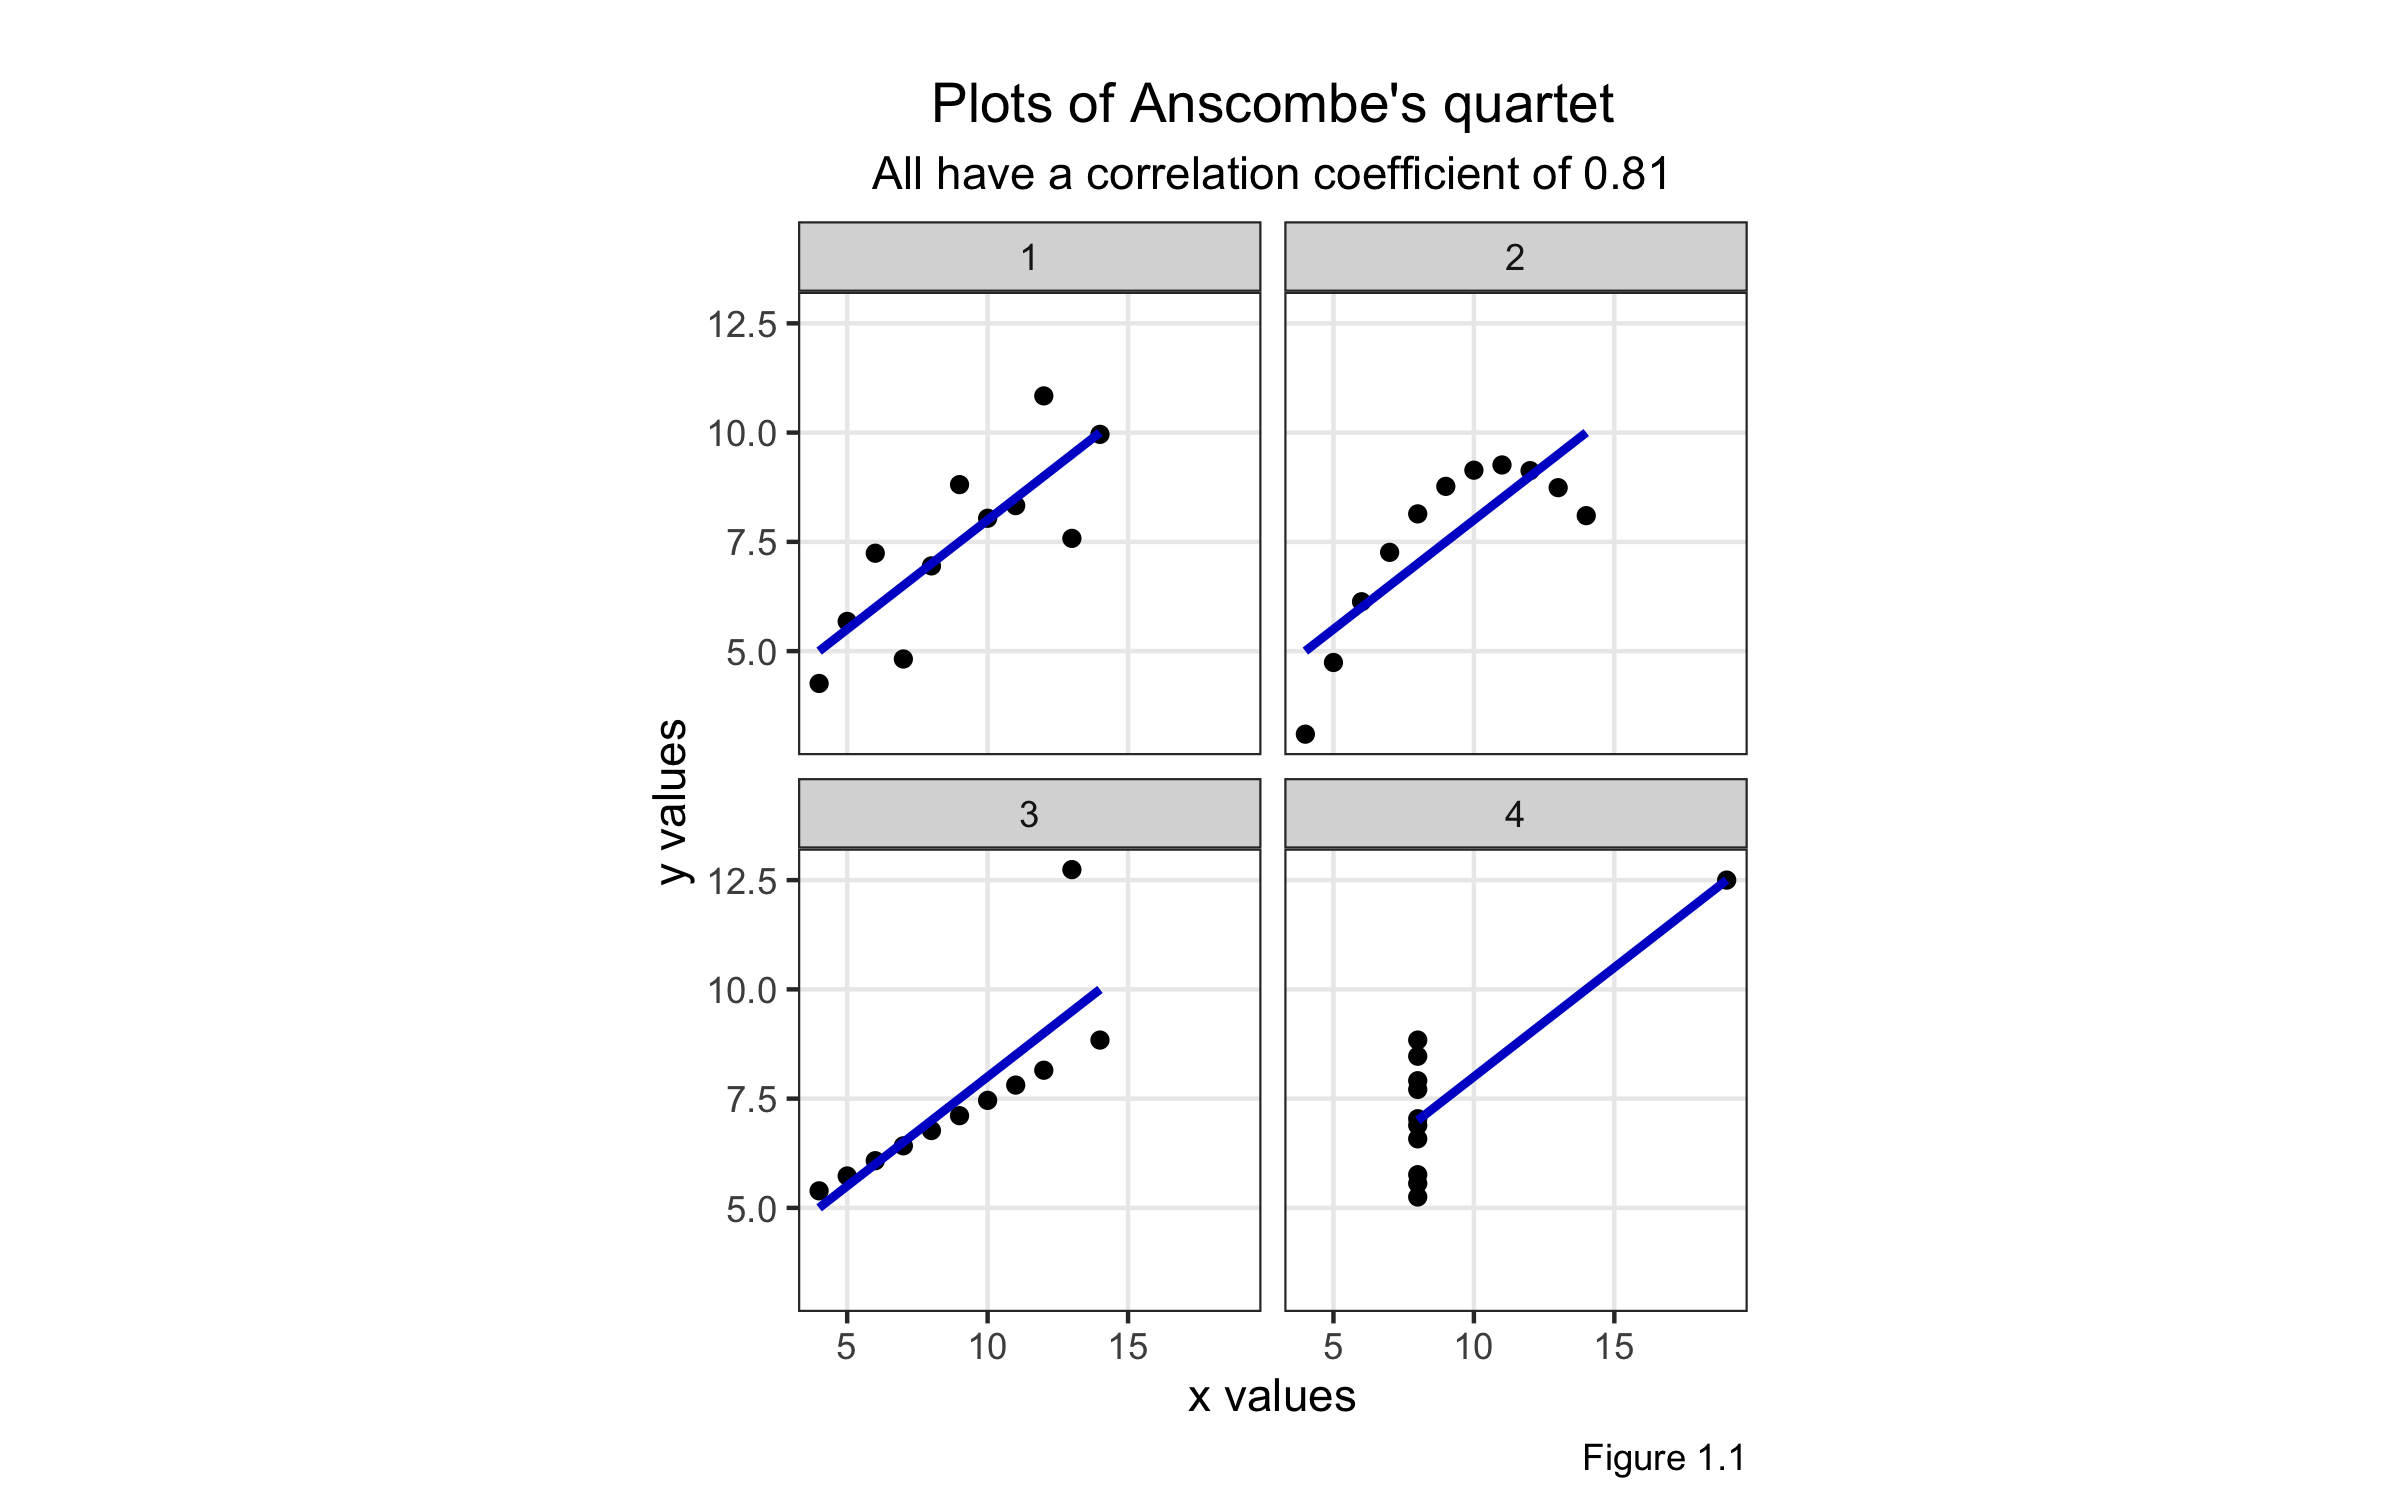
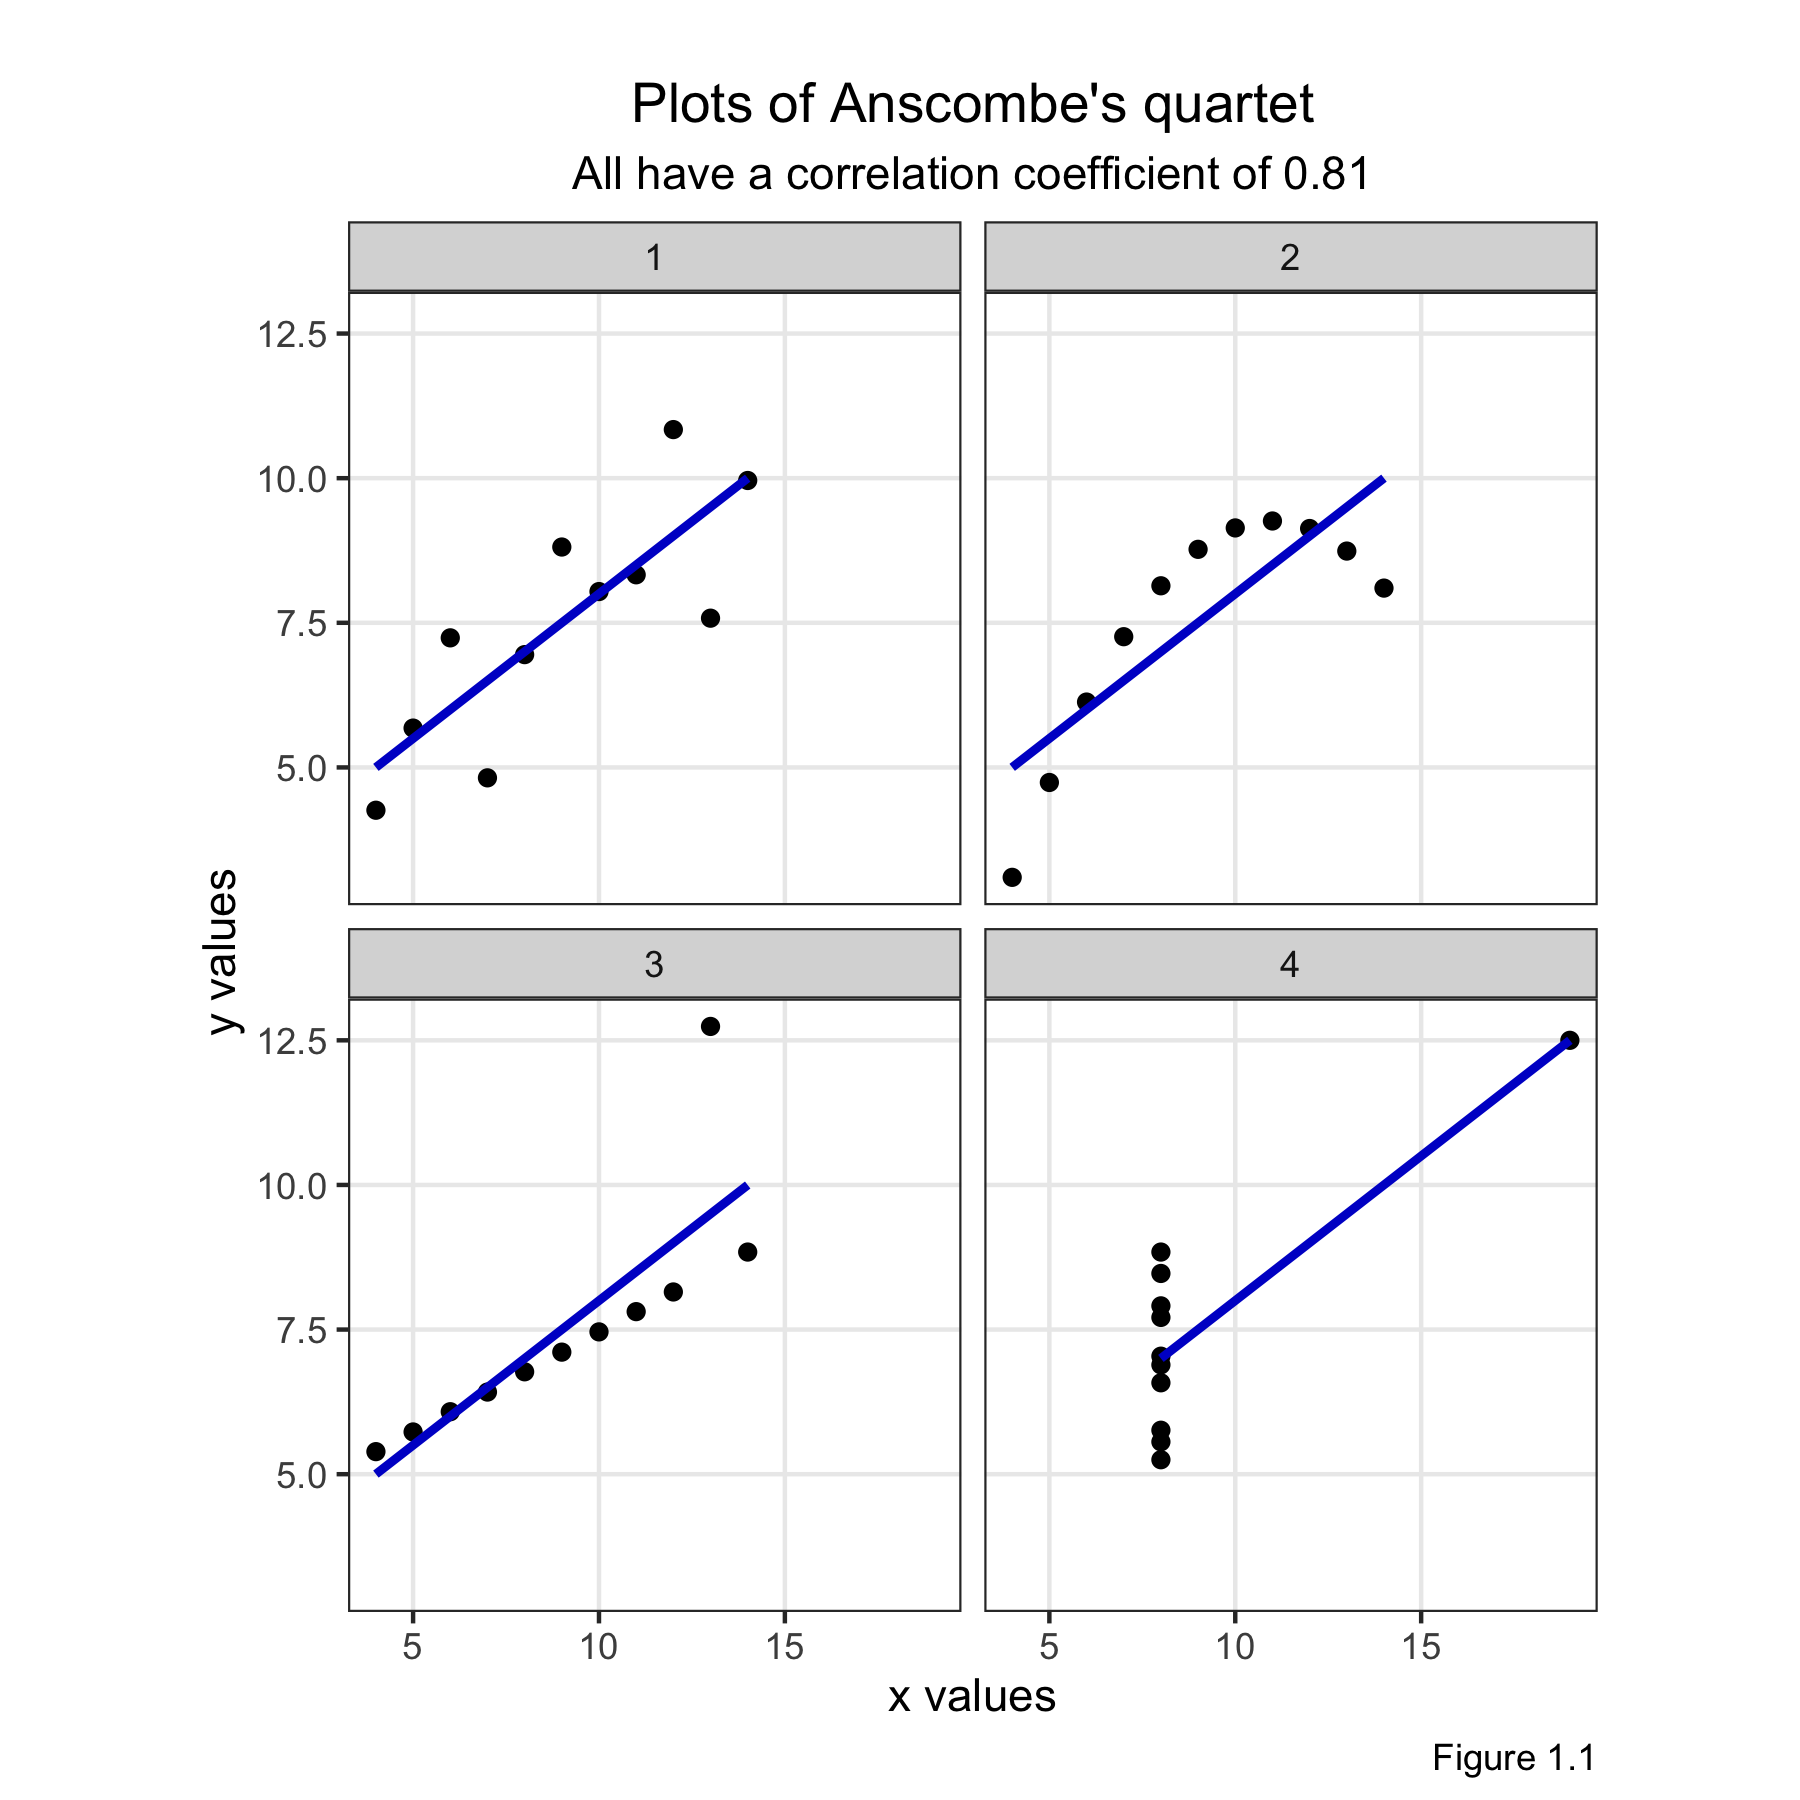
change figure width and length

diff --git a/README.md b/README.md
@@ -2,6 +2,23 @@ Data Visualization: A Practical Introduction
 ================
 Last updated in August 2020
 
+  - [Preface](#preface)
+  - [Data Visualization Notes](#data-visualization-notes)
+  - [This is an RMarkdown File](#this-is-an-rmarkdown-file)
+  - [Before you Begin](#before-you-begin)
+  - [Set Up Your Project and Load
+    Libraries](#set-up-your-project-and-load-libraries)
+  - [Look at Data](#look-at-data)
+  - [Get Started](#get-started)
+  - [Make a Plot](#make-a-plot)
+  - [Show the Right Numbers](#show-the-right-numbers)
+  - [Graph Tables, Make Labels, Add
+    Notes](#graph-tables-make-labels-add-notes)
+  - [Work with Models](#work-with-models)
+  - [Draw Maps](#draw-maps)
+  - [Refine your Plots](#refine-your-plots)
+  - [Appendix](#appendix)
+
 ## Preface
 
 This repository provides datasets, code, and plots as shown in Kieran
@@ -24,8 +41,8 @@ knitr::opts_chunk$set(
     warning = FALSE,
     comment = "",
     dpi = 300,
-    fig.width = 8,
-    fig.height = 5
+    fig.width = 6,
+    fig.height = 6
 )
 ```
 
